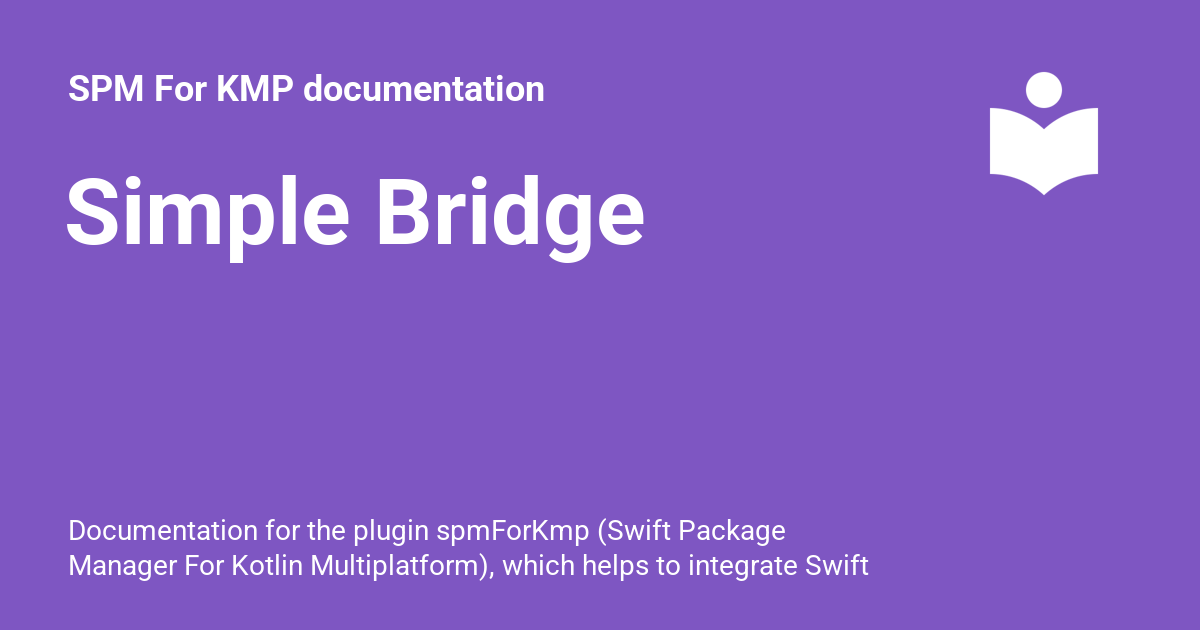
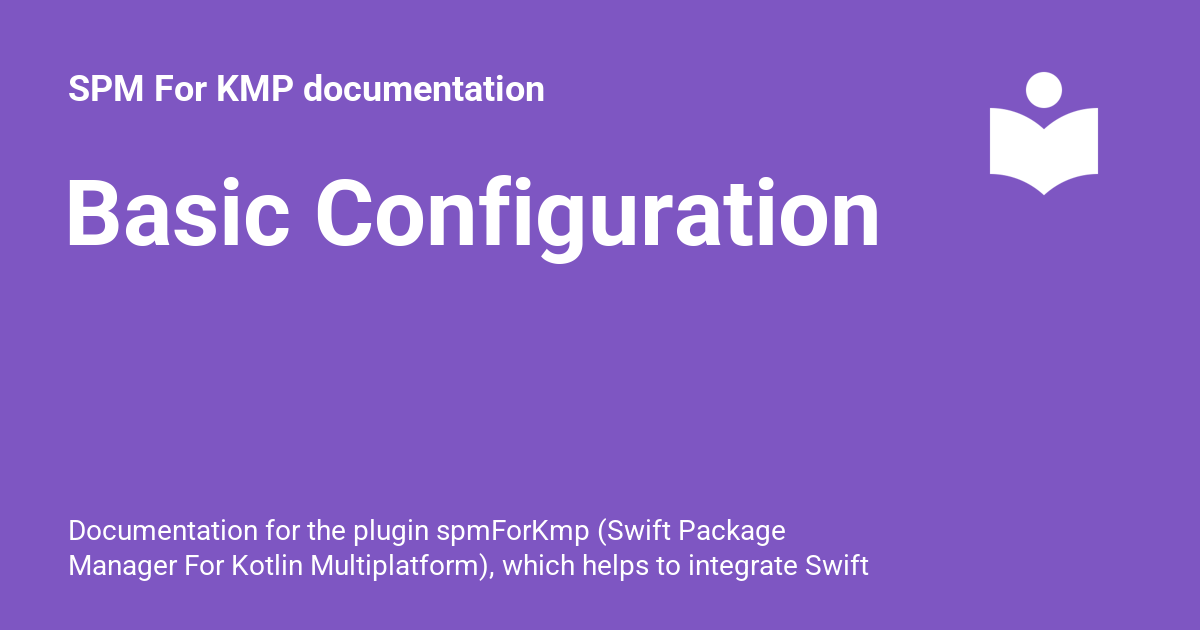
Deployed 92e8f3b with MkDocs version: 1.6.1

Changed region(s): [[0.0308, 0.2714, 0.74, 0.4222]]

diff --git a/bridge/index.html b/bridge/index.html
@@ -26,7 +26,7 @@
     
     
       
-        <title>Simple Bridge - SPM For KMP documentation</title>
+        <title>Basic Configuration - SPM For KMP documentation</title>
       
     
     
@@ -61,7 +61,7 @@
       
         <meta  property="og:type"  content="website" >
       
-        <meta  property="og:title"  content="Simple Bridge - SPM For KMP documentation" >
+        <meta  property="og:title"  content="Basic Configuration - SPM For KMP documentation" >
       
         <meta  property="og:description"  content="Documentation for the plugin spmForKmp (Swift Package Manager For Kotlin Multiplatform), which helps to integrate Swift Package into a KMP project by importing his content or using a bridge." >
       
@@ -77,7 +77,7 @@
       
         <meta  name="twitter:card"  content="summary_large_image" >
       
-        <meta  name="twitter:title"  content="Simple Bridge - SPM For KMP documentation" >
+        <meta  name="twitter:title"  content="Basic Configuration - SPM For KMP documentation" >
       
         <meta  name="twitter:description"  content="Documentation for the plugin spmForKmp (Swift Package Manager For Kotlin Multiplatform), which helps to integrate Swift Package into a KMP project by importing his content or using a bridge." >
       
@@ -104,7 +104,7 @@
     <div data-md-component="skip">
       
         
-        <a href="#simple-bridge" class="md-skip">
+        <a href="#basic-configuration" class="md-skip">
           Skip to content
         </a>
       
@@ -140,7 +140,7 @@
         <div class="md-header__topic" data-md-component="header-topic">
           <span class="md-ellipsis">
             
-              Simple Bridge
+              Basic Configuration
             
           </span>
         </div>
@@ -355,7 +355,7 @@
           
   
   <span class="md-ellipsis">
-    Simple Bridge
+    Basic Configuration
     
   </span>
   
@@ -367,7 +367,7 @@
         
   
   <span class="md-ellipsis">
-    Simple Bridge
+    Basic Configuration
     
   </span>
   
@@ -735,7 +735,7 @@
   
 
 
-<h1 id="simple-bridge">Simple Bridge</h1>
+<h1 id="basic-configuration">Basic Configuration</h1>
 <h2 id="gradle">Gradle</h2>
 <p>The following configuration is a simple bridge between Kotlin and Swift.</p>
 <div class="language-kotlin highlight"><span class="filename">build.gradle.kts</span><pre><span></span><code><span id="__span-0-1"><a id="__codelineno-0-1" name="__codelineno-0-1" href="#__codelineno-0-1"></a><span class="n">swiftPackageConfig</span><span class="w"> </span><span class="p">{</span>

diff --git a/404.html b/404.html
@@ -309,7 +309,7 @@
         
   
   <span class="md-ellipsis">
-    Simple Bridge
+    Basic Configuration
     
   </span>
   

diff --git a/bridgeWithDependencies/index.html b/bridgeWithDependencies/index.html
@@ -346,7 +346,7 @@
         
   
   <span class="md-ellipsis">
-    Simple Bridge
+    Basic Configuration
     
   </span>
   

diff --git a/distribution/index.html b/distribution/index.html
@@ -346,7 +346,7 @@
         
   
   <span class="md-ellipsis">
-    Simple Bridge
+    Basic Configuration
     
   </span>
   

diff --git a/exportingDependencies/index.html b/exportingDependencies/index.html
@@ -346,7 +346,7 @@
         
   
   <span class="md-ellipsis">
-    Simple Bridge
+    Basic Configuration
     
   </span>
   

diff --git a/faq/index.html b/faq/index.html
@@ -346,7 +346,7 @@
         
   
   <span class="md-ellipsis">
-    Simple Bridge
+    Basic Configuration
     
   </span>
   

diff --git a/index.html b/index.html
@@ -412,7 +412,7 @@
         
   
   <span class="md-ellipsis">
-    Simple Bridge
+    Basic Configuration
     
   </span>
   

diff --git a/license/index.html b/license/index.html
@@ -339,7 +339,7 @@
         
   
   <span class="md-ellipsis">
-    Simple Bridge
+    Basic Configuration
     
   </span>
   

diff --git a/multiTarget/index.html b/multiTarget/index.html
@@ -346,7 +346,7 @@
         
   
   <span class="md-ellipsis">
-    Simple Bridge
+    Basic Configuration
     
   </span>
   

diff --git a/references/productName/index.html b/references/productName/index.html
@@ -346,7 +346,7 @@
         
   
   <span class="md-ellipsis">
-    Simple Bridge
+    Basic Configuration
     
   </span>
   

diff --git a/references/productPackageConfig/index.html b/references/productPackageConfig/index.html
@@ -346,7 +346,7 @@
         
   
   <span class="md-ellipsis">
-    Simple Bridge
+    Basic Configuration
     
   </span>
   

diff --git a/references/swiftDependency/index.html b/references/swiftDependency/index.html
@@ -346,7 +346,7 @@
         
   
   <span class="md-ellipsis">
-    Simple Bridge
+    Basic Configuration
     
   </span>
   
